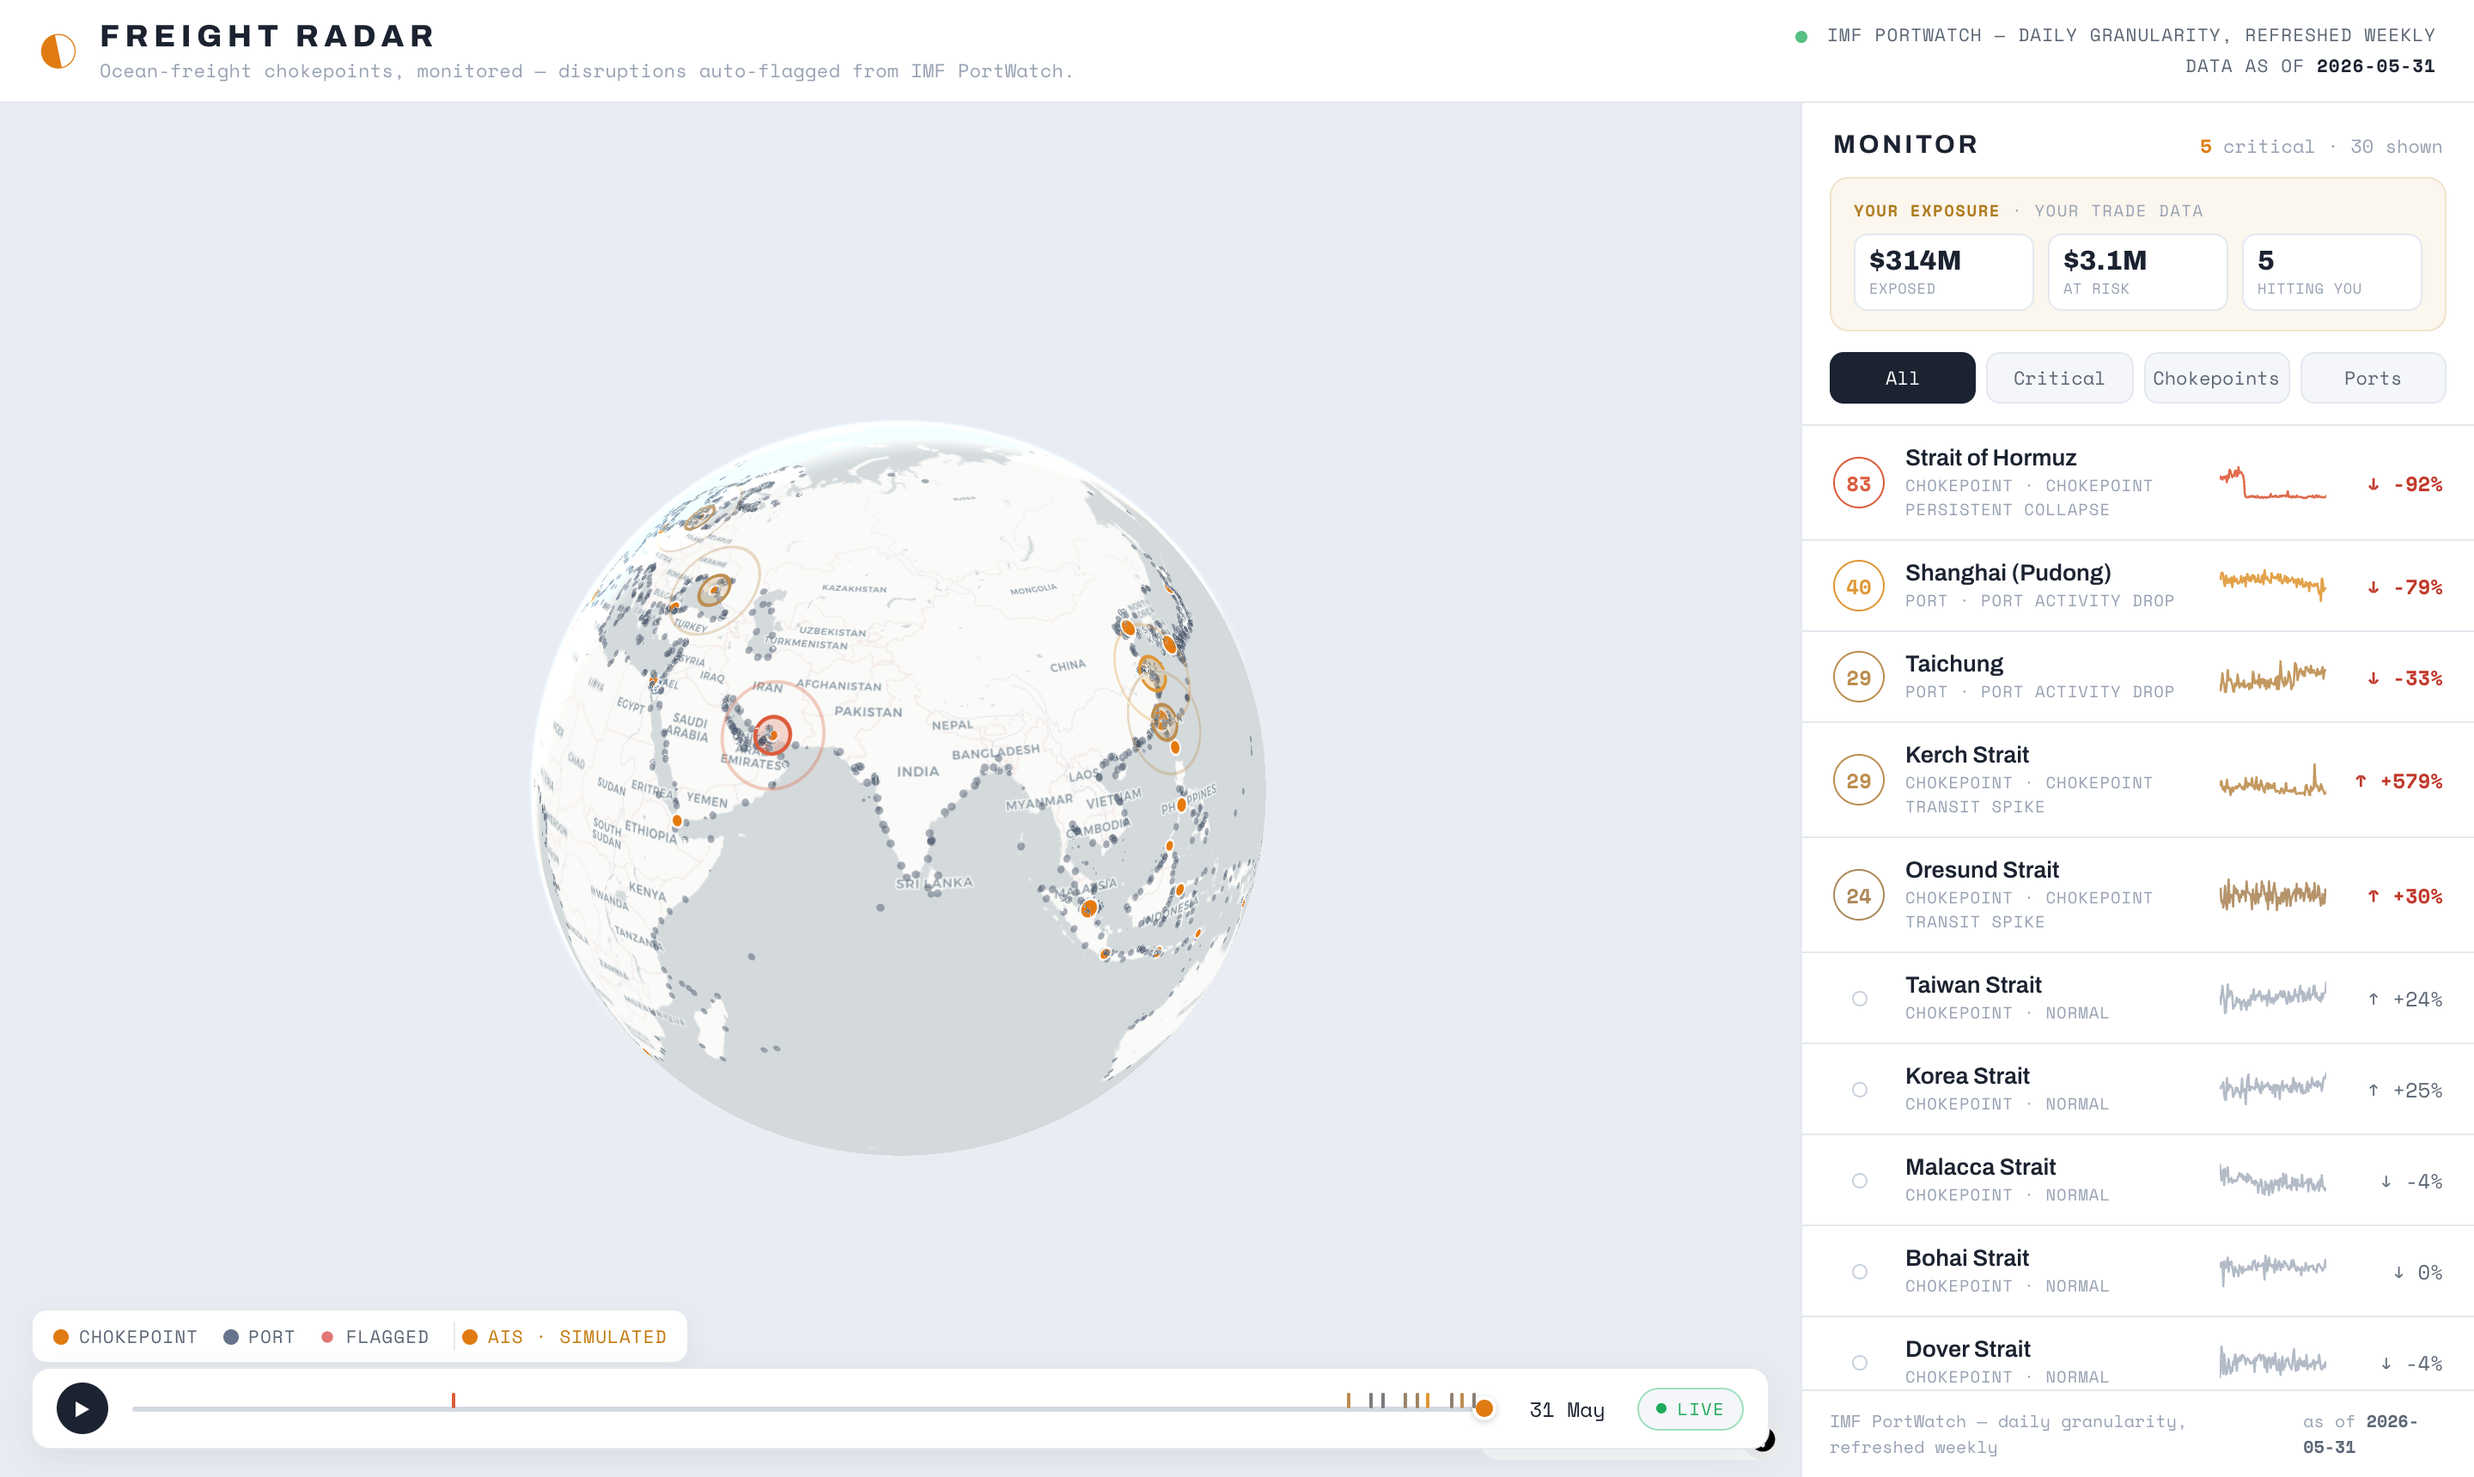
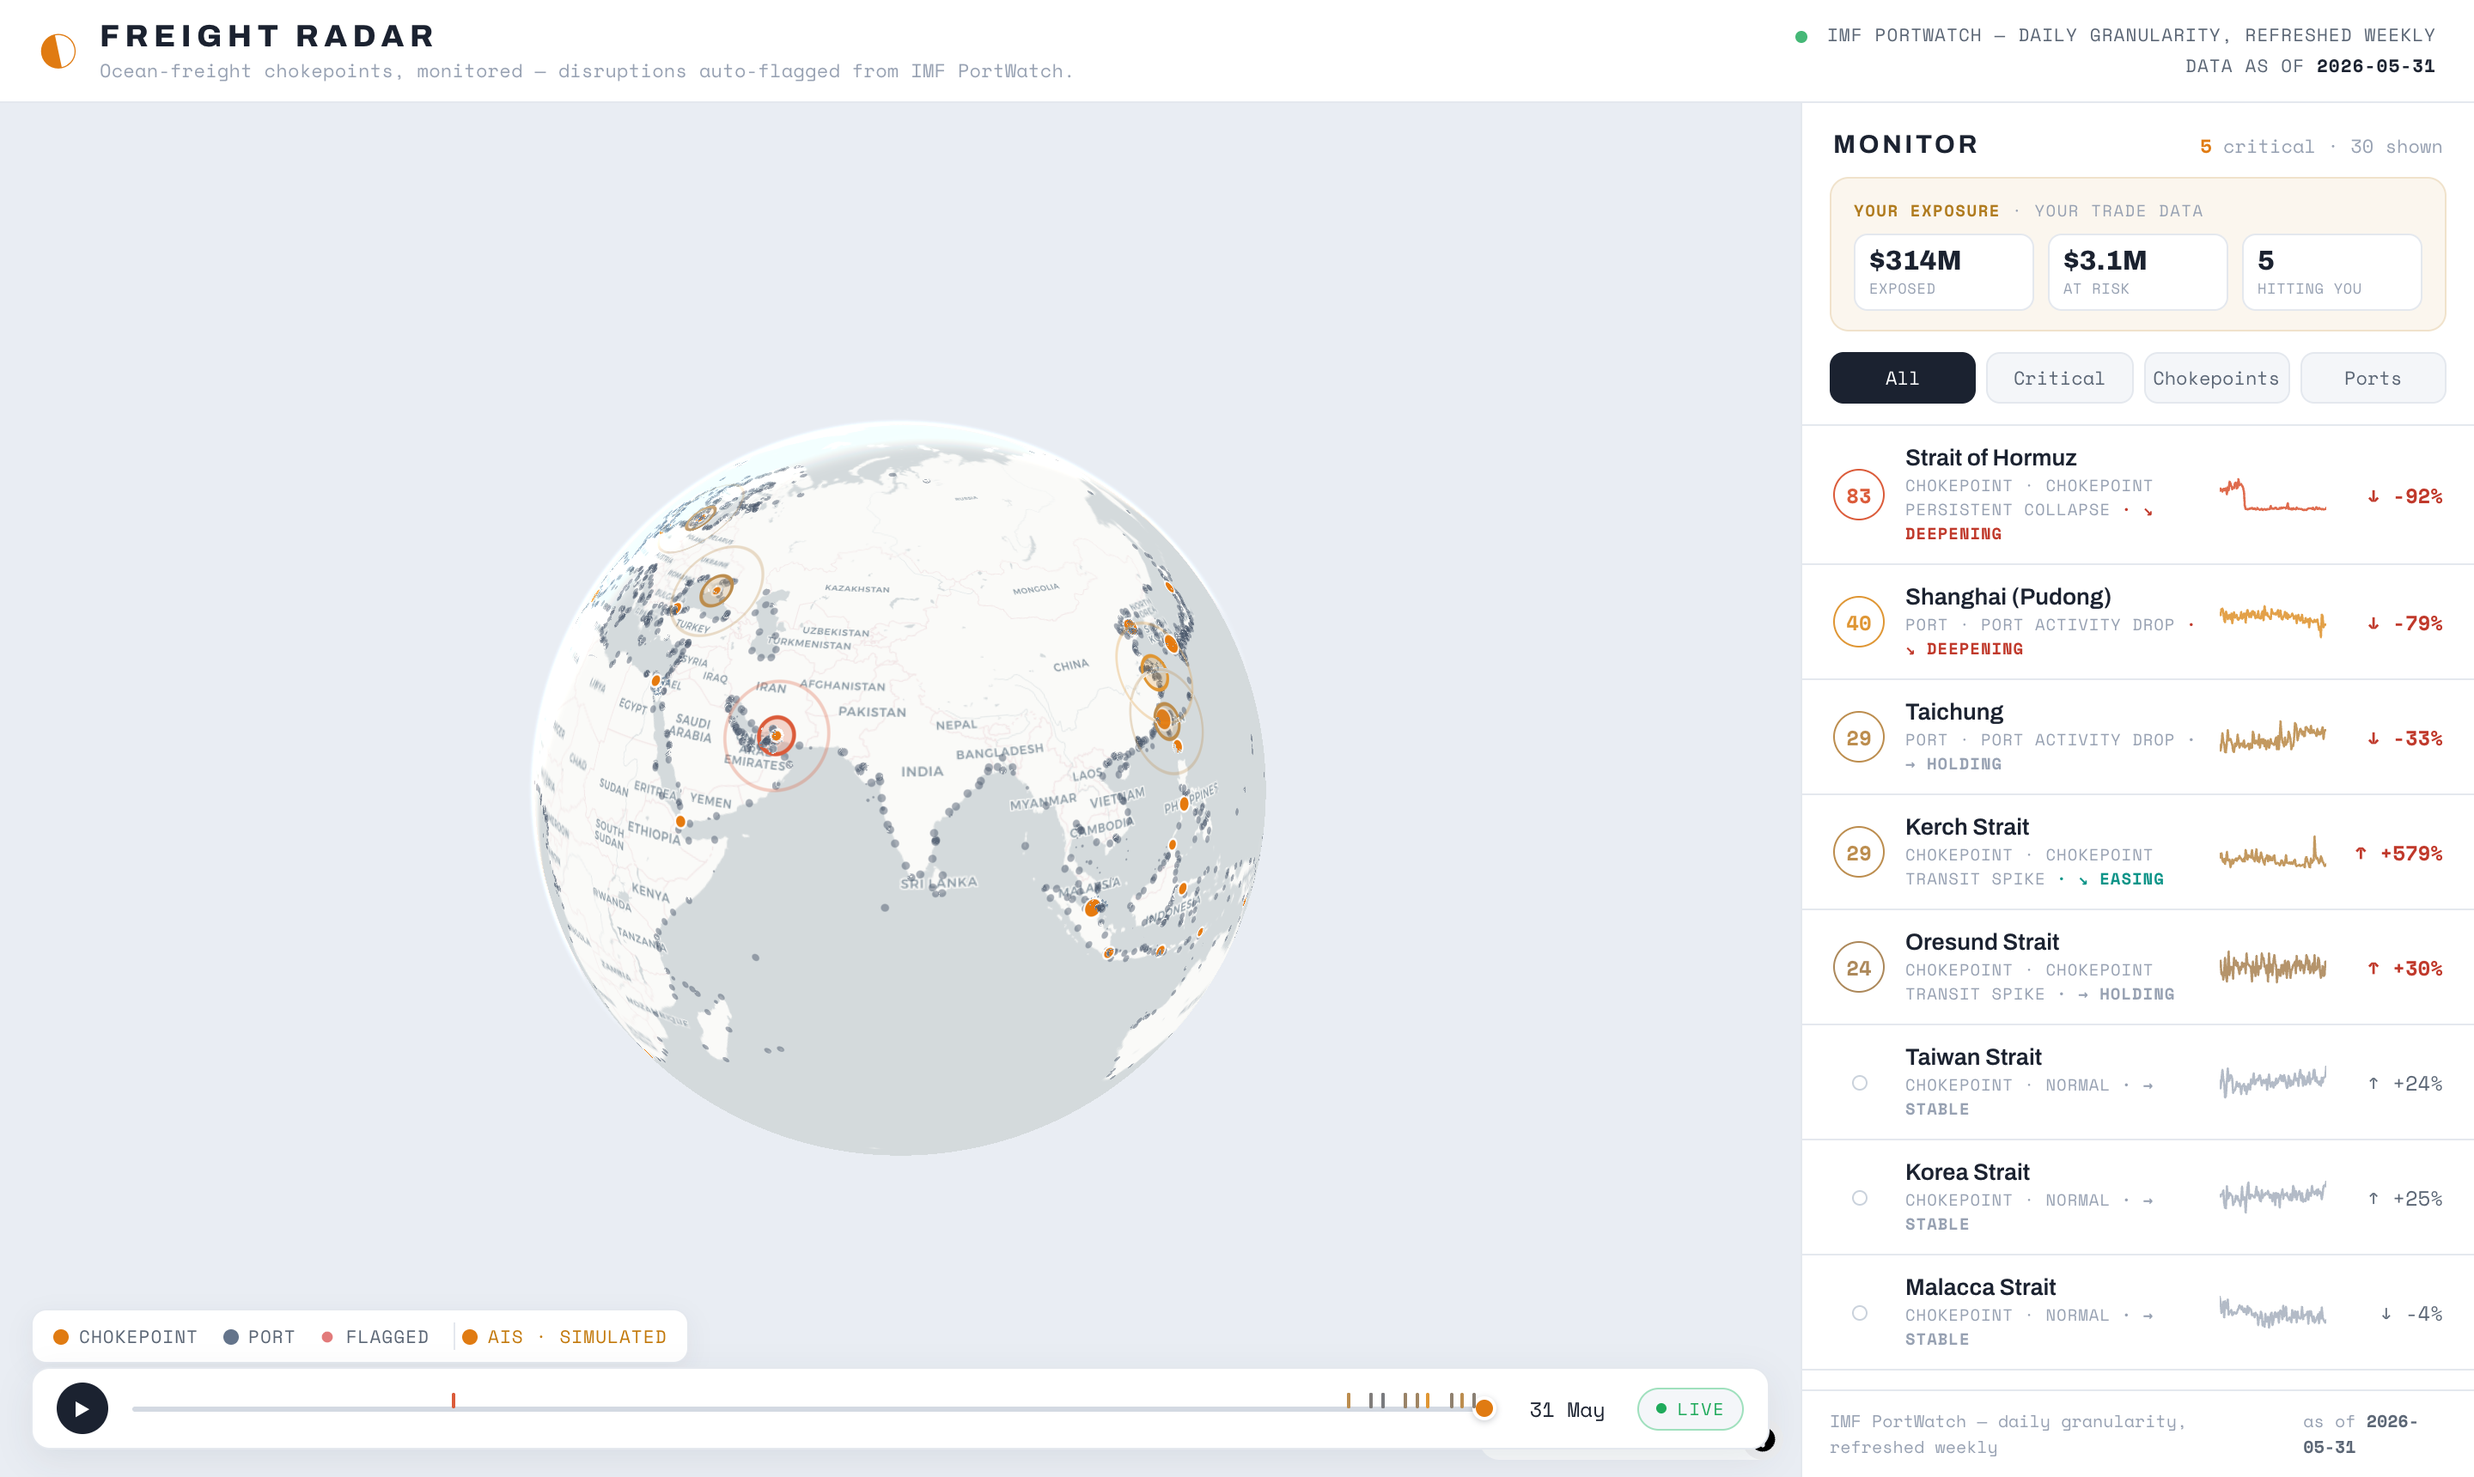
Trend read — which way each entity is moving now (recovering/deepening/easing)
The sparkline shows history; this says the current direction, interpreted against
the disruption: recent-10d vs prior-10d ->
  collapse/drop: up=recovering / down=deepening
  spike/surge:   down=easing     / up=intensifying
  normal:        rising / falling (neutral)
Shown as a compact chip in each row sub-line + a clear "Trending X — N% over last
10 days" line in the expanded view. Hormuz reads "deepening" (still drifting down,
not recovering); Kerch "easing" (spike receding).

Computed in the frontend from the per-entity series (lib/trend.js) — no backend
change, no extra data.

diff --git a/frontend/src/components/DataFeed.jsx b/frontend/src/components/DataFeed.jsx
@@ -2,6 +2,7 @@ import { severityCss } from '../lib/colors.js';
 import { money } from '../lib/format.js';
 import { Markdown } from '../lib/md.jsx';
 import { Sparkline, SparkHistory } from './Sparkline.jsx';
+import { computeTrend, trendLabel } from '../lib/trend.js';
 
 const FILTERS = [
   { key: 'all', label: 'All' },
@@ -68,6 +69,7 @@ function NewsBlock({ news }) {
 function Row({ e, active, onSelect, series, dates, news }) {
   const ser = series?.[e.id];
   const sparkColor = e.critical ? severityCss(e.severity) : '#aab3c0';
+  const tl = trendLabel(computeTrend(ser?.values), e.flag?.kind);
   return (
     <button
       className={`fr-row ${active ? 'is-active' : ''} ${e.critical ? 'is-critical' : ''}`}
@@ -85,6 +87,7 @@ function Row({ e, active, onSelect, series, dates, news }) {
           <span className="fr-row-name">{e.name}</span>
           <span className="fr-row-sub">
             {e.type}{e.flag ? ` · ${e.flag.kind.replaceAll('_', ' ')}` : ' · normal'}
+            {tl && <span className={`fr-trend ${tl.cls}`}> · {tl.arrow} {tl.label}</span>}
           </span>
         </div>
         {ser && <Sparkline values={ser.values} color={sparkColor} />}
@@ -94,6 +97,12 @@ function Row({ e, active, onSelect, series, dates, news }) {
         <div className="fr-row-brief">
           {e.flag && <Markdown text={e.flag.brief_md} />}
           <SparkHistory s={ser} dates={dates} asOf={e.flag?.as_of} baseline={e.flag?.baseline ?? e.baseline} color={sparkColor} />
+          {tl && (
+            <div className={`fr-trendline ${tl.cls}`}>
+              Trending <b>{tl.arrow} {tl.label}</b>
+              {tl.pct ? ` — ${tl.pct > 0 ? '+' : ''}${tl.pct}% over the last 10 days` : ''}
+            </div>
+          )}
           {e.flag && <BusinessImpact b={e.flag.business} />}
           {e.flag && news && <NewsBlock news={news} />}
           <div className="fr-row-meta">

diff --git a/frontend/src/lib/trend.js b/frontend/src/lib/trend.js
@@ -1,0 +1,34 @@
+// Recent-direction read off an entity's series — "which way is it moving now?"
+const avg = (a) => (a.length ? a.reduce((s, v) => s + v, 0) / a.length : 0);
+
+export function computeTrend(values, win = 10) {
+  if (!values || values.length < win * 2) return null;
+  const recent = avg(values.slice(-win));
+  const prior = avg(values.slice(-win * 2, -win));
+  const base = Math.abs(prior) > 1 ? Math.abs(prior) : Math.max(1, avg(values));
+  const pct = Math.round(((recent - prior) / base) * 100);
+  let dir = 'flat';
+  if (pct > 8) dir = 'up';
+  else if (pct < -8) dir = 'down';
+  return { dir, pct, win };
+}
+
+// Interpret the raw direction against the disruption: is it easing or worsening?
+export function trendLabel(t, kind) {
+  if (!t) return null;
+  const isDrop = kind && (kind.includes('collapse') || kind.includes('drop'));
+  const isSpike = kind && (kind.includes('spike') || kind.includes('surge'));
+  if (t.dir === 'flat') return { arrow: '→', label: kind ? 'holding' : 'stable', cls: 'tr-flat', pct: t.pct };
+  if (isDrop)
+    return t.dir === 'up'
+      ? { arrow: '↗', label: 'recovering', cls: 'tr-good', pct: t.pct }
+      : { arrow: '↘', label: 'deepening', cls: 'tr-bad', pct: t.pct };
+  if (isSpike)
+    return t.dir === 'down'
+      ? { arrow: '↘', label: 'easing', cls: 'tr-good', pct: t.pct }
+      : { arrow: '↗', label: 'intensifying', cls: 'tr-bad', pct: t.pct };
+  // normal entity — neutral direction only
+  return t.dir === 'up'
+    ? { arrow: '↑', label: 'rising', cls: 'tr-flat', pct: t.pct }
+    : { arrow: '↓', label: 'falling', cls: 'tr-flat', pct: t.pct };
+}

diff --git a/frontend/src/styles.css b/frontend/src/styles.css
@@ -227,6 +227,19 @@ html, body, #root {
 .fr-brief-p { margin: 0 0 8px; }
 .fr-brief-p strong { color: var(--ink); }
 .fr-brief-p em { color: var(--ink-faint); font-style: normal; font-size: 11.5px; }
+/* trend read */
+.fr-trend { font-weight: 700; }
+.fr-trend.tr-bad { color: #c0392b; }
+.fr-trend.tr-good { color: #0d9488; }
+.fr-trend.tr-flat { color: var(--ink-faint); }
+.fr-trendline {
+  margin: 8px 0 2px; font-size: 12px; color: var(--ink-dim);
+}
+.fr-trendline b { font-weight: 700; }
+.fr-trendline.tr-bad b { color: #c0392b; }
+.fr-trendline.tr-good b { color: #0d9488; }
+.fr-trendline.tr-flat b { color: var(--ink); }
+
 .fr-history { margin: 10px 0 4px; }
 .fr-histsvg {
   display: block; width: 100%; background: #fafbfc;
